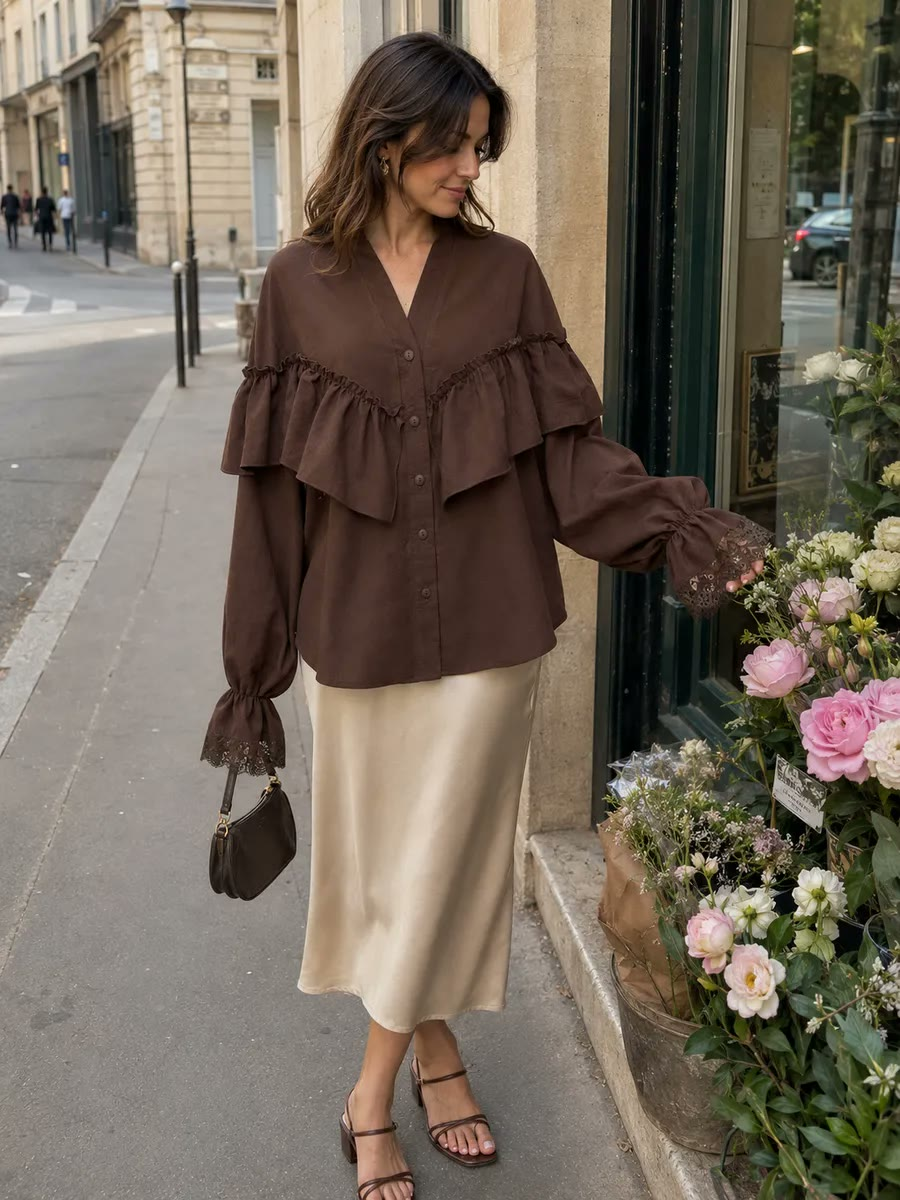
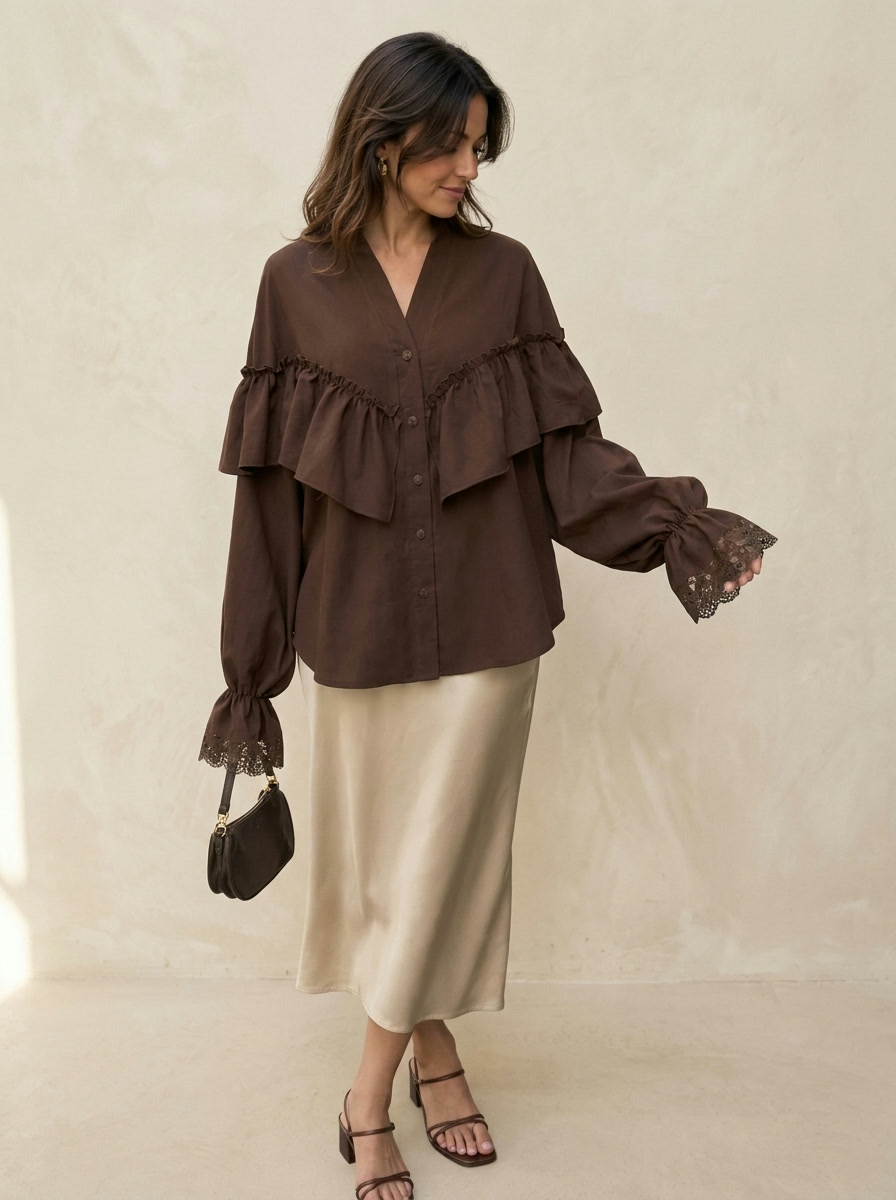
fix(white): the marketplace shots leave — the site keeps its own photography
The raw Wildberries frames pulled into the albums this morning read as
marketplace, not boutique — they go. Albums return to the house
restyles on the ivory wall, and the school blouse gets its own pair
shot the same way, so every photograph on the storefront speaks one
language again.

diff --git a/apps/web/app/[locale]/white/products.ts b/apps/web/app/[locale]/white/products.ts
@@ -48,25 +48,25 @@ const ROSE: WhiteColor = {key: 'rose', hex: '#d9aca4', en: 'Rose', ru: 'Розо
 // warm-white studio for the White editorial look (real WB photo → reference
 // generation). Same-origin JPEGs under images/white/products, CSP img-src 'self'.
 export const WHITE_PRODUCTS: WhiteProduct[] = [
-  {key: 1, en: 'Linen Maxi Suit', ru: 'Льняной костюм с юбкой макси', cat: 'tailoring', price: 4269, descEn: 'A sleeveless linen vest and a floor-skimming maxi skirt, cut for summer ease. Natural buttons, a defined waist, unlined.', descRu: 'Льняной жилет без рукавов и юбка макси в пол — летняя лёгкость. Натуральные пуговицы, подчёркнутая талия, без подклада.', compositionEn: '100% linen', compositionRu: '100% лён', careEn: 'Machine wash cold, gentle', careRu: 'Деликатная стирка в холодной воде', colors: [IVORY], image: '/images/white/products/p-1008989269.jpg', nm: 1008989269, gallery: ['/images/white/products/p-1008989269-2.jpg', '/images/white/products/p-1008989269-6.jpg', '/images/white/products/p-1008989269-8.jpg']},
-  {key: 2, en: 'Fitted Blazer Coat', ru: 'Пальто-пиджак приталенное', cat: 'outerwear', price: 34900, descEn: 'A demi-season coat cut like a blazer — clean collarless shoulders and a sculpted, buttoned waist. Fully lined.', descRu: 'Демисезонное пальто с кроем пиджака — чистые плечи без воротника и скульптурная талия на пуговицах. На подкладе.', compositionEn: 'Wool blend', compositionRu: 'Шерстяная смесь', careEn: 'Dry clean only', careRu: 'Только химчистка', colors: [SAND, CHARCOAL], image: '/images/white/products/p-795522033.jpg', nm: 795522033, gallery: ['/images/white/products/p-795522033-2.jpg', '/images/white/products/p-795522033-6.jpg']},
-  {key: 3, en: 'Peplum Suit Vest', ru: 'Жилет костюмный с баской', cat: 'tailoring', price: 4466, descEn: 'A classic tailored vest with a peplum flare and a buttoned front. Nipped at the waist, sharp over anything.', descRu: 'Классический костюмный жилет с баской и застёжкой на пуговицы. Приталенный, острый поверх чего угодно.', compositionEn: 'Cotton blend', compositionRu: 'Хлопковая смесь', careEn: 'Dry clean only', careRu: 'Только химчистка', colors: [BROWN, BLACK], image: '/images/white/products/p-962827637.jpg', nm: 962827637, gallery: ['/images/white/products/p-962827637-2.jpg', '/images/white/products/p-962827637-6.jpg', '/images/white/products/p-962827637-8.jpg']},
-  {key: 4, en: 'Bow Sweatshirt', ru: 'Свитшот с бантиками', cat: 'knitwear', price: 8000, descEn: 'An oversized cotton sweatshirt softened with bow details. Dropped shoulders, ribbed trims, quiet comfort.', descRu: 'Оверсайз-свитшот из хлопка, смягчённый бантиками. Приспущенное плечо, рубчатые края, тихий комфорт.', compositionEn: 'Cotton blend', compositionRu: 'Хлопковая смесь', careEn: 'Machine wash cold', careRu: 'Машинная стирка в холодной воде', colors: [IVORY, OAT], image: '/images/white/products/p-442577291.jpg', nm: 442577291, gallery: ['/images/white/products/p-442577291-2.jpg', '/images/white/products/p-442577291-6.jpg', '/images/white/products/p-442577291-8.jpg']},
+  {key: 1, en: 'Linen Maxi Suit', ru: 'Льняной костюм с юбкой макси', cat: 'tailoring', price: 4269, descEn: 'A sleeveless linen vest and a floor-skimming maxi skirt, cut for summer ease. Natural buttons, a defined waist, unlined.', descRu: 'Льняной жилет без рукавов и юбка макси в пол — летняя лёгкость. Натуральные пуговицы, подчёркнутая талия, без подклада.', compositionEn: '100% linen', compositionRu: '100% лён', careEn: 'Machine wash cold, gentle', careRu: 'Деликатная стирка в холодной воде', colors: [IVORY], image: '/images/white/products/p-1008989269.jpg', nm: 1008989269, gallery: ['/images/white/products/p-1008989269-2.jpg']},
+  {key: 2, en: 'Fitted Blazer Coat', ru: 'Пальто-пиджак приталенное', cat: 'outerwear', price: 34900, descEn: 'A demi-season coat cut like a blazer — clean collarless shoulders and a sculpted, buttoned waist. Fully lined.', descRu: 'Демисезонное пальто с кроем пиджака — чистые плечи без воротника и скульптурная талия на пуговицах. На подкладе.', compositionEn: 'Wool blend', compositionRu: 'Шерстяная смесь', careEn: 'Dry clean only', careRu: 'Только химчистка', colors: [SAND, CHARCOAL], image: '/images/white/products/p-795522033.jpg', nm: 795522033, gallery: ['/images/white/products/p-795522033-2.jpg']},
+  {key: 3, en: 'Peplum Suit Vest', ru: 'Жилет костюмный с баской', cat: 'tailoring', price: 4466, descEn: 'A classic tailored vest with a peplum flare and a buttoned front. Nipped at the waist, sharp over anything.', descRu: 'Классический костюмный жилет с баской и застёжкой на пуговицы. Приталенный, острый поверх чего угодно.', compositionEn: 'Cotton blend', compositionRu: 'Хлопковая смесь', careEn: 'Dry clean only', careRu: 'Только химчистка', colors: [BROWN, BLACK], image: '/images/white/products/p-962827637.jpg', nm: 962827637, gallery: ['/images/white/products/p-962827637-2.jpg']},
+  {key: 4, en: 'Bow Sweatshirt', ru: 'Свитшот с бантиками', cat: 'knitwear', price: 8000, descEn: 'An oversized cotton sweatshirt softened with bow details. Dropped shoulders, ribbed trims, quiet comfort.', descRu: 'Оверсайз-свитшот из хлопка, смягчённый бантиками. Приспущенное плечо, рубчатые края, тихий комфорт.', compositionEn: 'Cotton blend', compositionRu: 'Хлопковая смесь', careEn: 'Machine wash cold', careRu: 'Машинная стирка в холодной воде', colors: [IVORY, OAT], image: '/images/white/products/p-442577291.jpg', nm: 442577291, gallery: ['/images/white/products/p-442577291-2.jpg']},
   {key: 5, en: 'Lace Pencil Skirt', ru: 'Юбка-карандаш с кружевом', cat: 'skirts', price: 30150, descEn: 'A high-waisted pencil skirt finished with fine lace. Tailored through the hip, midi length, quietly formal.', descRu: 'Юбка-карандаш с высокой посадкой и тонким кружевом. Точный крой по бедру, длина миди, сдержанная торжественность.', compositionEn: 'Wool blend with lace', compositionRu: 'Шерстяная смесь с кружевом', careEn: 'Dry clean only', careRu: 'Только химчистка', colors: [IVORY, BLACK], image: '/images/white/products/p-1217805724.jpg', nm: 1217805724},
-  {key: 6, en: 'Peplum Evening Corset', ru: 'Корсет вечерний с баской', cat: 'dresses', price: 2932, descEn: 'A structured evening corset with a peplum hem. A boned bodice and a defined waist, made to be dressed up.', descRu: 'Структурный вечерний корсет с баской. Лиф на косточках и чёткая талия — создан для выхода.', compositionEn: 'Cotton blend', compositionRu: 'Хлопковая смесь', careEn: 'Dry clean only', careRu: 'Только химчистка', colors: [BLACK], image: '/images/white/products/p-675104410.jpg', nm: 675104410, gallery: ['/images/white/products/p-675104410-2.jpg', '/images/white/products/p-675104410-6.jpg', '/images/white/products/p-675104410-8.jpg']},
-  {key: 7, en: 'Draped Harem Trousers', ru: 'Брюки алладины', cat: 'tailoring', price: 2927, descEn: 'Softly draped harem trousers with a relaxed fall and a clean waist. Easy tailoring for every day.', descRu: 'Мягко драпированные брюки алладины со свободным силуэтом и чистой талией. Лёгкий тайлоринг на каждый день.', compositionEn: 'Viscose blend', compositionRu: 'Вискозная смесь', careEn: 'Machine wash cold', careRu: 'Машинная стирка в холодной воде', colors: [SAND, BLACK], image: '/images/white/products/p-962783109.jpg', nm: 962783109, gallery: ['/images/white/products/p-962783109-2.jpg', '/images/white/products/p-962783109-6.jpg', '/images/white/products/p-962783109-8.jpg']},
+  {key: 6, en: 'Peplum Evening Corset', ru: 'Корсет вечерний с баской', cat: 'dresses', price: 2932, descEn: 'A structured evening corset with a peplum hem. A boned bodice and a defined waist, made to be dressed up.', descRu: 'Структурный вечерний корсет с баской. Лиф на косточках и чёткая талия — создан для выхода.', compositionEn: 'Cotton blend', compositionRu: 'Хлопковая смесь', careEn: 'Dry clean only', careRu: 'Только химчистка', colors: [BLACK], image: '/images/white/products/p-675104410.jpg', nm: 675104410, gallery: ['/images/white/products/p-675104410-2.jpg']},
+  {key: 7, en: 'Draped Harem Trousers', ru: 'Брюки алладины', cat: 'tailoring', price: 2927, descEn: 'Softly draped harem trousers with a relaxed fall and a clean waist. Easy tailoring for every day.', descRu: 'Мягко драпированные брюки алладины со свободным силуэтом и чистой талией. Лёгкий тайлоринг на каждый день.', compositionEn: 'Viscose blend', compositionRu: 'Вискозная смесь', careEn: 'Machine wash cold', careRu: 'Машинная стирка в холодной воде', colors: [SAND, BLACK], image: '/images/white/products/p-962783109.jpg', nm: 962783109, gallery: ['/images/white/products/p-962783109-2.jpg']},
   {key: 8, en: 'Satin Balloon Skirt', ru: 'Юбка баллон атласная', cat: 'skirts', price: 2565, descEn: 'A satin balloon mini with built-in shorts and a rounded volume. Matte sheen, quiet movement.', descRu: 'Атласная юбка-баллон мини с шортами и округлым объёмом. Матовый блеск, тихое движение.', compositionEn: 'Satin', compositionRu: 'Атлас', careEn: 'Machine wash cold', careRu: 'Машинная стирка в холодной воде', colors: [SAND, CHAMPAGNE], image: '/images/white/products/p-371980450.jpg', nm: 371980450, gallery: ['/images/white/products/p-371980450-2.jpg']},
-  {key: 9, en: 'Lace Oversized Shirt', ru: 'Рубашка оверсайз с кружевом', cat: 'dresses', price: 8326, descEn: 'An oversized shirt softened with lace panels. Relaxed shoulders, a fluid drape, quietly romantic.', descRu: 'Оверсайз-рубашка, смягчённая кружевными вставками. Свободные плечи, текучий крой, тихая романтика.', compositionEn: 'Cotton with lace', compositionRu: 'Хлопок с кружевом', careEn: 'Hand wash cold', careRu: 'Ручная стирка в холодной воде', colors: [SAND, ROSE, GREY, BLACK], image: '/images/white/products/p-1113526969.jpg', nm: 1113526969, gallery: ['/images/white/products/p-1113526969-2.jpg', '/images/white/products/p-1113526969-6.jpg', '/images/white/products/p-1113526969-8.jpg']},
-  {key: 10, en: 'Suede Skort', ru: 'Юбка-шорты замшевая', cat: 'skirts', price: 2922, descEn: 'A suede mini skort — the ease of shorts under the line of a skirt. Soft hand, clean hem.', descRu: 'Замшевая юбка-шорты — лёгкость шорт под линией юбки. Мягкая фактура, чистый низ.', compositionEn: 'Suede', compositionRu: 'Замша', careEn: 'Dry clean only', careRu: 'Только химчистка', colors: [SAND, BROWN], image: '/images/white/products/p-1143078000.jpg', nm: 1143078000, gallery: ['/images/white/products/p-1143078000-2.jpg', '/images/white/products/p-1143078000-6.jpg']},
-  {key: 11, en: 'Long Belted Coat', ru: 'Пальто оверсайз с поясом', cat: 'outerwear', price: 34900, descEn: 'A long oversized demi-season coat with a self-tie belt. Dropped shoulders, a deep collar, floor-skimming.', descRu: 'Длинное оверсайз-пальто демисезона с поясом. Приспущенное плечо, глубокий воротник, длина в пол.', compositionEn: 'Wool blend', compositionRu: 'Шерстяная смесь', careEn: 'Dry clean only', careRu: 'Только химчистка', colors: [SAND, CAMEL], image: '/images/white/products/p-100797221.jpg', nm: 100797221, gallery: ['/images/white/products/p-100797221-2.jpg', '/images/white/products/p-100797221-7.jpg']},
-  {key: 12, en: 'Ribbed Slit Dress', ru: 'Платье лапша с разрезом', cat: 'dresses', price: 632, descEn: 'A long ribbed knit dress that skims the body, opened by a single side slit. Second-skin soft.', descRu: 'Длинное платье в рубчик, что скользит по фигуре, с одним боковым разрезом. Мягкое как вторая кожа.', compositionEn: 'Ribbed viscose', compositionRu: 'Вискоза в рубчик', careEn: 'Hand wash cold', careRu: 'Ручная стирка в холодной воде', colors: [OAT, GREY], image: '/images/white/products/p-192510012.jpg', nm: 192510012, gallery: ['/images/white/products/p-192510012-2.jpg', '/images/white/products/p-192510012-3.jpg', '/images/white/products/p-192510012-4.jpg', '/images/white/products/p-192510012-6.jpg', '/images/white/products/p-192510012-7.jpg', '/images/white/products/p-192510012-8.jpg']},
-  {key: 13, en: 'Striped Belted Coat', ru: 'Пальто в полоску с поясом', cat: 'outerwear', price: 34900, descEn: 'A long oversized coat in a fine tonal stripe, closed with a belt. Considered ease over anything.', descRu: 'Длинное оверсайз-пальто в тонкую тональную полоску, на поясе. Продуманная лёгкость поверх чего угодно.', compositionEn: 'Wool blend', compositionRu: 'Шерстяная смесь', careEn: 'Dry clean only', careRu: 'Только химчистка', colors: [SAND, CHARCOAL], image: '/images/white/products/p-814720607.jpg', nm: 814720607, gallery: ['/images/white/products/p-814720607-2.jpg', '/images/white/products/p-814720607-6.jpg', '/images/white/products/p-814720607-7.jpg']},
-  {key: 14, en: 'Spring Kimono Coat', ru: 'Пальто кимоно весеннее', cat: 'outerwear', price: 34900, descEn: 'A short kimono-cut coat for spring — wide sleeves, a wrap front, no fuss. Light layering.', descRu: 'Короткое пальто кроя кимоно для весны — широкий рукав, запа́х, без суеты. Лёгкий слой.', compositionEn: 'Wool blend', compositionRu: 'Шерстяная смесь', careEn: 'Dry clean only', careRu: 'Только химчистка', colors: [SAND], image: '/images/white/products/p-801438197.jpg', nm: 801438197, gallery: ['/images/white/products/p-801438197-2.jpg', '/images/white/products/p-801438197-8.jpg']},
-  {key: 15, en: 'Draped Kimono Coat', ru: 'Пальто кимоно драповое', cat: 'outerwear', price: 34900, descEn: 'A draped wool kimono coat with a belt and a fluid fall. Architectural calm, cut to move.', descRu: 'Драповое пальто кимоно с поясом и текучим силуэтом. Архитектурное спокойствие, крой в движении.', compositionEn: 'Drape wool', compositionRu: 'Драп', careEn: 'Dry clean only', careRu: 'Только химчистка', colors: [CAMEL, CHARCOAL], image: '/images/white/products/p-795627344.jpg', nm: 795627344, gallery: ['/images/white/products/p-795627344-2.jpg', '/images/white/products/p-795627344-8.jpg']},
-  {key: 16, en: 'Short Kimono Coat', ru: 'Пальто кимоно короткое', cat: 'outerwear', price: 34900, descEn: 'A cropped kimono coat with clean lines and a soft shoulder. The quiet finish to a look.', descRu: 'Укороченное пальто кимоно с чистыми линиями и мягким плечом. Тихое завершение образа.', compositionEn: 'Wool blend', compositionRu: 'Шерстяная смесь', careEn: 'Dry clean only', careRu: 'Только химчистка', colors: [SAND], image: '/images/white/products/p-795657866.jpg', nm: 795657866, gallery: ['/images/white/products/p-795657866-2.jpg', '/images/white/products/p-795657866-8.jpg']},
+  {key: 9, en: 'Lace Oversized Shirt', ru: 'Рубашка оверсайз с кружевом', cat: 'dresses', price: 8326, descEn: 'An oversized shirt softened with lace panels. Relaxed shoulders, a fluid drape, quietly romantic.', descRu: 'Оверсайз-рубашка, смягчённая кружевными вставками. Свободные плечи, текучий крой, тихая романтика.', compositionEn: 'Cotton with lace', compositionRu: 'Хлопок с кружевом', careEn: 'Hand wash cold', careRu: 'Ручная стирка в холодной воде', colors: [SAND, ROSE, GREY, BLACK], image: '/images/white/products/p-1113526969.jpg', nm: 1113526969, gallery: ['/images/white/products/p-1113526969-2.jpg']},
+  {key: 10, en: 'Suede Skort', ru: 'Юбка-шорты замшевая', cat: 'skirts', price: 2922, descEn: 'A suede mini skort — the ease of shorts under the line of a skirt. Soft hand, clean hem.', descRu: 'Замшевая юбка-шорты — лёгкость шорт под линией юбки. Мягкая фактура, чистый низ.', compositionEn: 'Suede', compositionRu: 'Замша', careEn: 'Dry clean only', careRu: 'Только химчистка', colors: [SAND, BROWN], image: '/images/white/products/p-1143078000.jpg', nm: 1143078000, gallery: ['/images/white/products/p-1143078000-2.jpg']},
+  {key: 11, en: 'Long Belted Coat', ru: 'Пальто оверсайз с поясом', cat: 'outerwear', price: 34900, descEn: 'A long oversized demi-season coat with a self-tie belt. Dropped shoulders, a deep collar, floor-skimming.', descRu: 'Длинное оверсайз-пальто демисезона с поясом. Приспущенное плечо, глубокий воротник, длина в пол.', compositionEn: 'Wool blend', compositionRu: 'Шерстяная смесь', careEn: 'Dry clean only', careRu: 'Только химчистка', colors: [SAND, CAMEL], image: '/images/white/products/p-100797221.jpg', nm: 100797221, gallery: ['/images/white/products/p-100797221-2.jpg']},
+  {key: 12, en: 'Ribbed Slit Dress', ru: 'Платье лапша с разрезом', cat: 'dresses', price: 632, descEn: 'A long ribbed knit dress that skims the body, opened by a single side slit. Second-skin soft.', descRu: 'Длинное платье в рубчик, что скользит по фигуре, с одним боковым разрезом. Мягкое как вторая кожа.', compositionEn: 'Ribbed viscose', compositionRu: 'Вискоза в рубчик', careEn: 'Hand wash cold', careRu: 'Ручная стирка в холодной воде', colors: [OAT, GREY], image: '/images/white/products/p-192510012.jpg', nm: 192510012, gallery: ['/images/white/products/p-192510012-2.jpg']},
+  {key: 13, en: 'Striped Belted Coat', ru: 'Пальто в полоску с поясом', cat: 'outerwear', price: 34900, descEn: 'A long oversized coat in a fine tonal stripe, closed with a belt. Considered ease over anything.', descRu: 'Длинное оверсайз-пальто в тонкую тональную полоску, на поясе. Продуманная лёгкость поверх чего угодно.', compositionEn: 'Wool blend', compositionRu: 'Шерстяная смесь', careEn: 'Dry clean only', careRu: 'Только химчистка', colors: [SAND, CHARCOAL], image: '/images/white/products/p-814720607.jpg', nm: 814720607, gallery: ['/images/white/products/p-814720607-2.jpg']},
+  {key: 14, en: 'Spring Kimono Coat', ru: 'Пальто кимоно весеннее', cat: 'outerwear', price: 34900, descEn: 'A short kimono-cut coat for spring — wide sleeves, a wrap front, no fuss. Light layering.', descRu: 'Короткое пальто кроя кимоно для весны — широкий рукав, запа́х, без суеты. Лёгкий слой.', compositionEn: 'Wool blend', compositionRu: 'Шерстяная смесь', careEn: 'Dry clean only', careRu: 'Только химчистка', colors: [SAND], image: '/images/white/products/p-801438197.jpg', nm: 801438197, gallery: ['/images/white/products/p-801438197-2.jpg']},
+  {key: 15, en: 'Draped Kimono Coat', ru: 'Пальто кимоно драповое', cat: 'outerwear', price: 34900, descEn: 'A draped wool kimono coat with a belt and a fluid fall. Architectural calm, cut to move.', descRu: 'Драповое пальто кимоно с поясом и текучим силуэтом. Архитектурное спокойствие, крой в движении.', compositionEn: 'Drape wool', compositionRu: 'Драп', careEn: 'Dry clean only', careRu: 'Только химчистка', colors: [CAMEL, CHARCOAL], image: '/images/white/products/p-795627344.jpg', nm: 795627344, gallery: ['/images/white/products/p-795627344-2.jpg']},
+  {key: 16, en: 'Short Kimono Coat', ru: 'Пальто кимоно короткое', cat: 'outerwear', price: 34900, descEn: 'A cropped kimono coat with clean lines and a soft shoulder. The quiet finish to a look.', descRu: 'Укороченное пальто кимоно с чистыми линиями и мягким плечом. Тихое завершение образа.', compositionEn: 'Wool blend', compositionRu: 'Шерстяная смесь', careEn: 'Dry clean only', careRu: 'Только химчистка', colors: [SAND], image: '/images/white/products/p-795657866.jpg', nm: 795657866, gallery: ['/images/white/products/p-795657866-2.jpg']},
   {key: 17, en: 'Evening Dress', ru: 'Платье вечернее', cat: 'dresses', price: 1375, descEn: 'An occasion dress cut close and quiet. A clean neckline, a defined waist, made for evening.', descRu: 'Вечернее платье приталенного, сдержанного кроя. Чистая линия выреза, чёткая талия — для вечера.', compositionEn: 'Crepe', compositionRu: 'Креп', careEn: 'Dry clean only', careRu: 'Только химчистка', colors: [BLACK, BORDEAUX], image: '/images/white/products/p-192521903.jpg', nm: 192521903, gallery: ['/images/white/products/p-192521903-2.jpg']},
   {key: 18, en: 'Lace Peplum Vest', ru: 'Жилет с баской и кружевом', cat: 'tailoring', price: 33400, descEn: 'A tailored peplum vest finished with lace. The sharpness of tailoring, softened at the edge.', descRu: 'Костюмный жилет с баской, завершённый кружевом. Острота тайлоринга, смягчённая по краю.', compositionEn: 'Wool blend with lace', compositionRu: 'Шерстяная смесь с кружевом', careEn: 'Dry clean only', careRu: 'Только химчистка', colors: [IVORY, BROWN, BLACK], image: '/images/white/products/p-1224761706.jpg', nm: 1224761706},
-  {key: 19, en: 'School Ruffle Blouse', ru: 'Блузка школьная с воланами', cat: 'dresses', price: 3177, descEn: 'An oversized school blouse with soft ruffles — crisp cotton, a clean collar, easy volume. The uniform, made kind.', descRu: 'Школьная оверсайз-блузка с мягкими воланами — свежий хлопок, чистый воротник, лёгкий объём. Форма, ставшая доброй.', compositionEn: 'Cotton blend', compositionRu: 'Хлопковая смесь', careEn: 'Machine wash warm', careRu: 'Машинная стирка при 40°', colors: [IVORY, BLACK, BROWN], image: '/images/white/products/p-1126294272.jpg', nm: 1126294272, gallery: ['/images/white/products/p-1126294272-6.jpg']},
+  {key: 19, en: 'School Ruffle Blouse', ru: 'Блузка школьная с воланами', cat: 'dresses', price: 3177, descEn: 'An oversized school blouse with soft ruffles — crisp cotton, a clean collar, easy volume. The uniform, made kind.', descRu: 'Школьная оверсайз-блузка с мягкими воланами — свежий хлопок, чистый воротник, лёгкий объём. Форма, ставшая доброй.', compositionEn: 'Cotton blend', compositionRu: 'Хлопковая смесь', careEn: 'Machine wash warm', careRu: 'Машинная стирка при 40°', colors: [IVORY, BLACK, BROWN], image: '/images/white/products/p-1126294272.jpg', nm: 1126294272, gallery: ['/images/white/products/p-1126294272-2.jpg']},
 ];
 
 // Editorial imagery — model-on-white shots generated for the White variant (the
